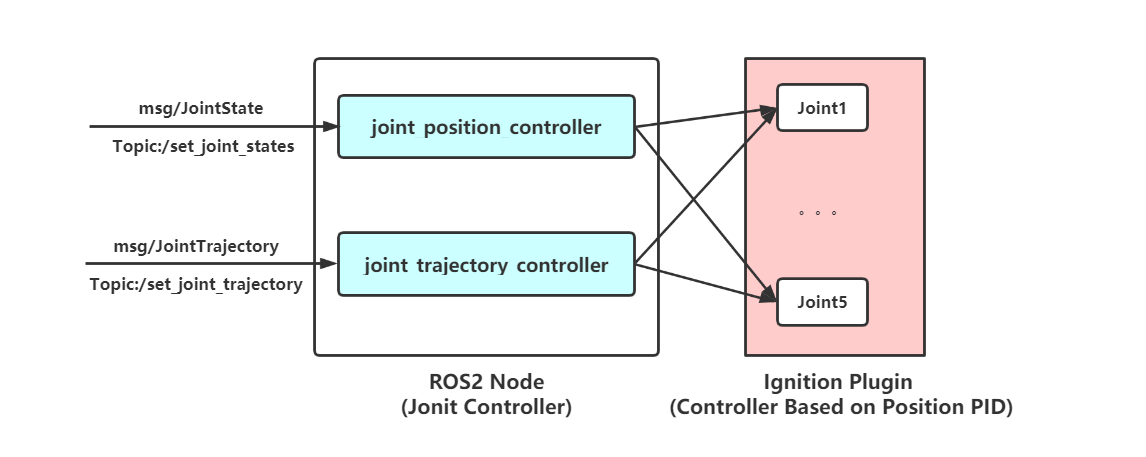
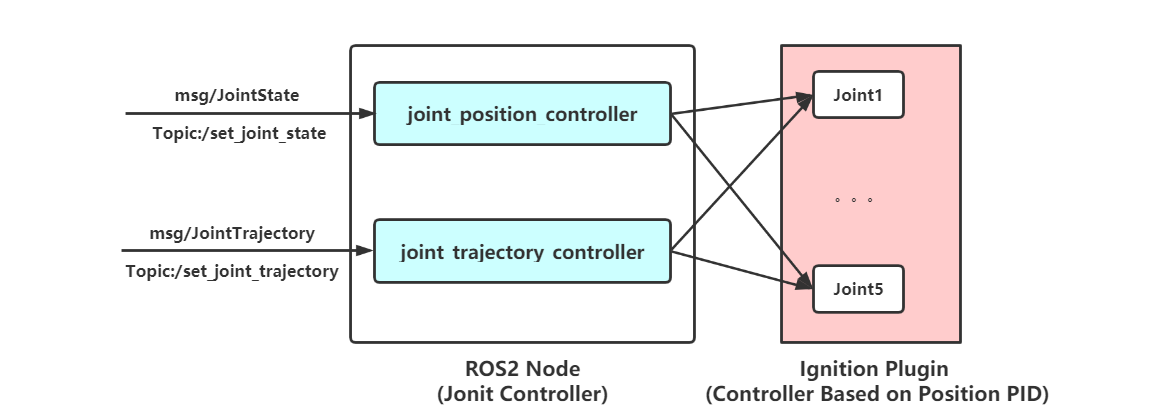
change set_joint_states to set_joint_state

Changed region(s): [[0.0611, 0.0931, 0.9162, 0.9618], [0.7024, 0.4654, 0.733, 0.4964]]

diff --git a/nodes/joint_controller_node.cpp b/nodes/joint_controller_node.cpp
@@ -33,7 +33,7 @@ int main(int argc, char* argv[])
         joint_names, "set_joint_trajectory", ign_joint_topics ,update_rate);
     // create controller 
     auto joint_position_controller = std::make_shared<universal_robot_ign::JointPositionController>(ros_node,
-        joint_names, "set_joint_states", ign_joint_topics);
+        joint_names, "set_joint_state", ign_joint_topics);
     // run node until it's exited
     rclcpp::spin(ros_node);
     //clean up

diff --git a/nodes/joint_position_controller_node.cpp b/nodes/joint_position_controller_node.cpp
@@ -27,7 +27,7 @@ int main(int argc, char* argv[])
     ign_joint_topics = ros_node->get_parameter("ign_joint_topics").as_string_array();
     // create controller 
     auto joint_controller = std::make_shared<universal_robot_ign::JointPositionController>(ros_node,
-        joint_names, "set_joint_states", ign_joint_topics);
+        joint_names, "set_joint_state", ign_joint_topics);
     // run node until it's exited
     rclcpp::spin(ros_node);
     //clean up

diff --git a/src/joint_state_publisher.cpp b/src/joint_state_publisher.cpp
@@ -58,7 +58,7 @@ void JointStatePublisher::jointStateTimerCb()
     //create  JointState msg
     sensor_msgs::msg::JointState ros_msg;
     ros_msg.header.stamp = rclcpp::Clock().now();
-    ros_msg.header.frame_id = "robot";
+    ros_msg.header.frame_id = current_joint_msg_.name();
     for (size_t i = 0; i < joint_names_.size(); ++i) {
         ros_msg.name.push_back(joint_names_[i]);
         auto idx = joint_idxs_map_[i];

diff --git a/launch/ur10_robotiq140_demo.launch.py b/launch/ur10_robotiq140_demo.launch.py
@@ -19,7 +19,7 @@ def generate_launch_description():
             executable='joint_state_publisher_gui',
             name="joint_state_publisher_gui",
             arguments=[ urdf ],
-            remappings=[('/joint_states', '/set_joint_states')],
+            remappings=[('/joint_states', '/set_joint_state')],
             output='screen') 
     
     return LaunchDescription([

diff --git a/launch/ur10_robotiq140_ign.launch.py b/launch/ur10_robotiq140_ign.launch.py
@@ -55,7 +55,7 @@ def generate_launch_description():
             executable='parameter_bridge',
             arguments=["/model/ur10/gripper@std_msgs/msg/Bool]ignition.msgs.Boolean"],
             remappings=[
-                ("/model/ur10/gripper","/ur10/gripper"),
+                ("/model/ur10/gripper","/gripper"),
             ],
             output='screen'
     )

diff --git a/scripts/test_gripper.py b/scripts/test_gripper.py
@@ -13,7 +13,7 @@ input:
 def main():
     rclpy.init()
     node = rclpy.create_node('gripper_test')
-    pub = node.create_publisher(Bool, '/ur10/gripper', 10)
+    pub = node.create_publisher(Bool, '/gripper', 10)
     while(rclpy.ok()):
         # start detect
         mode = input(input_msg)
